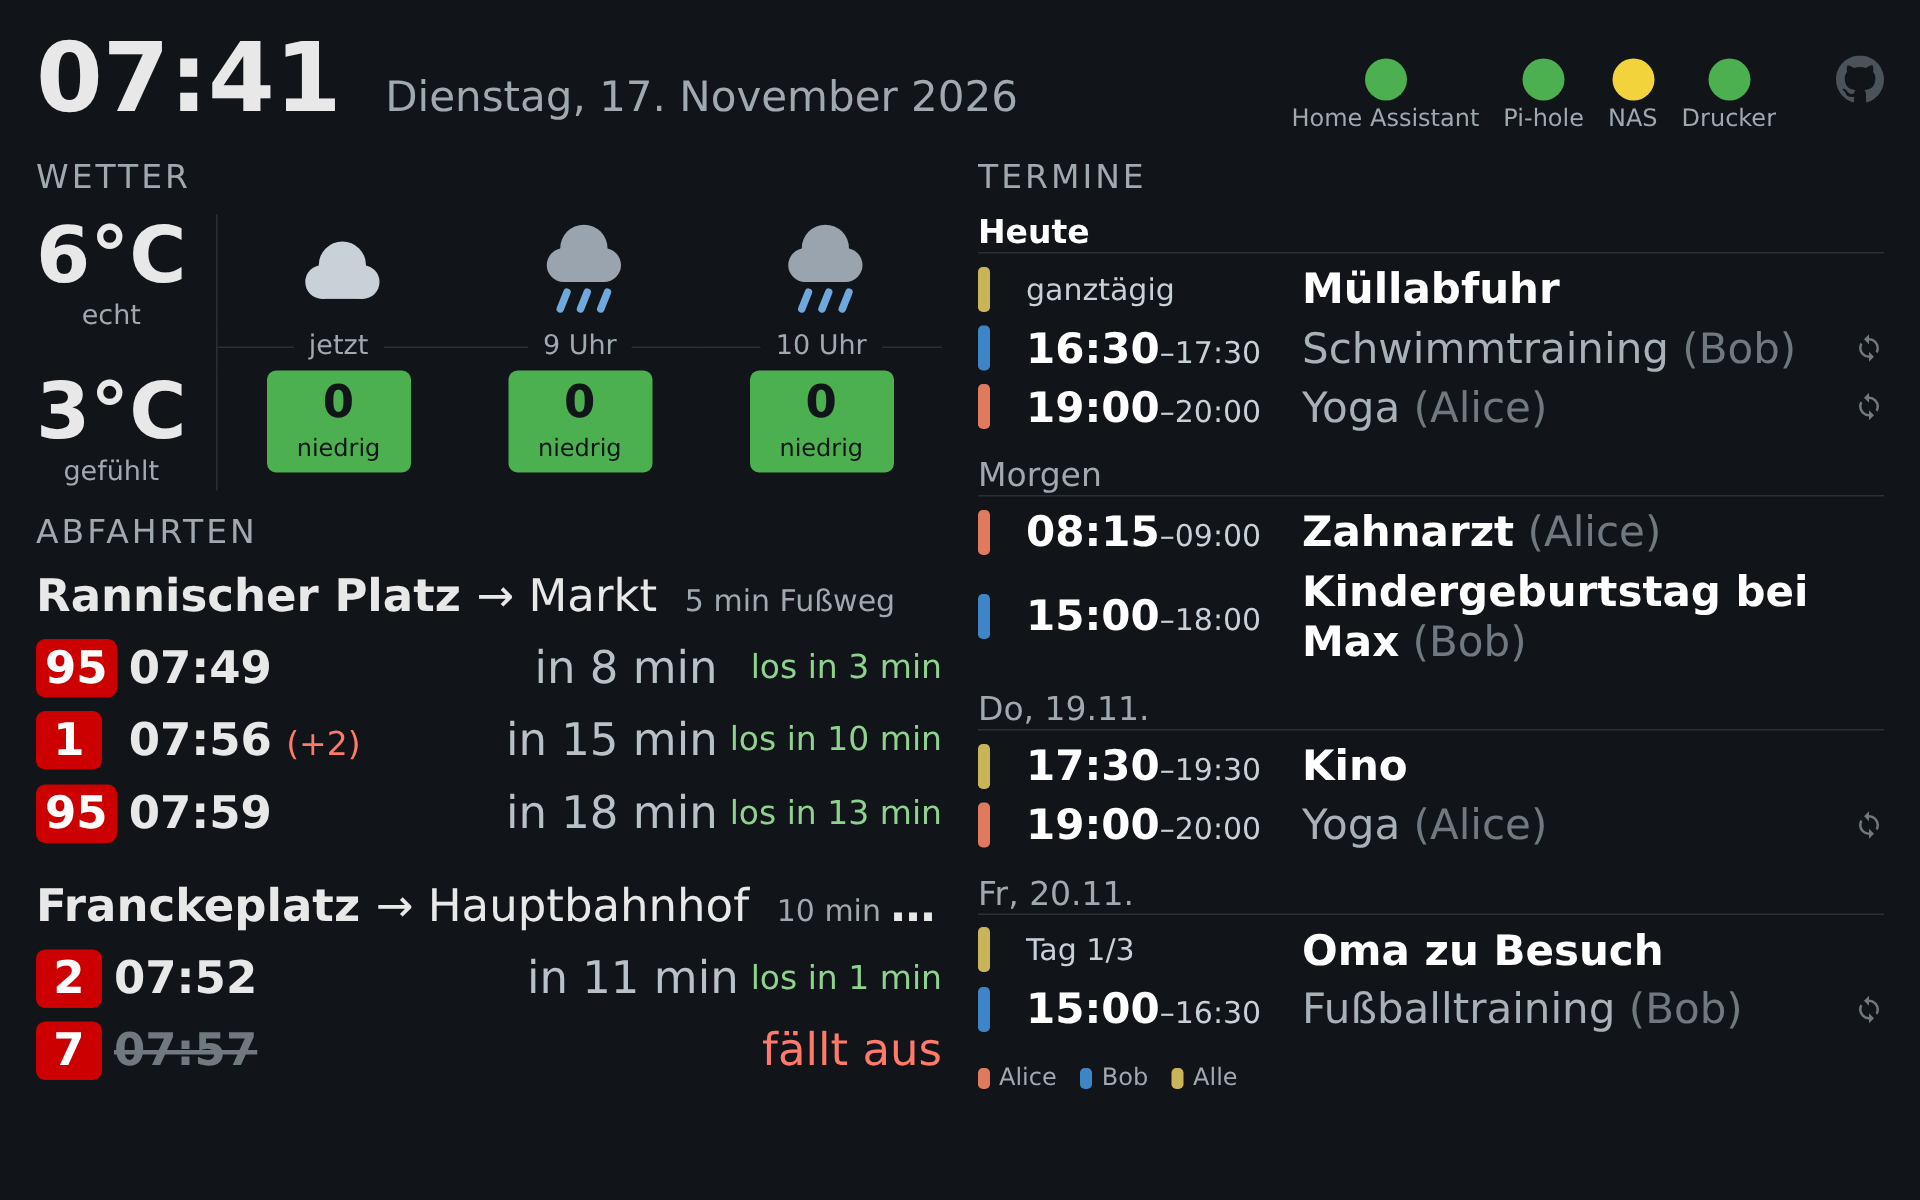
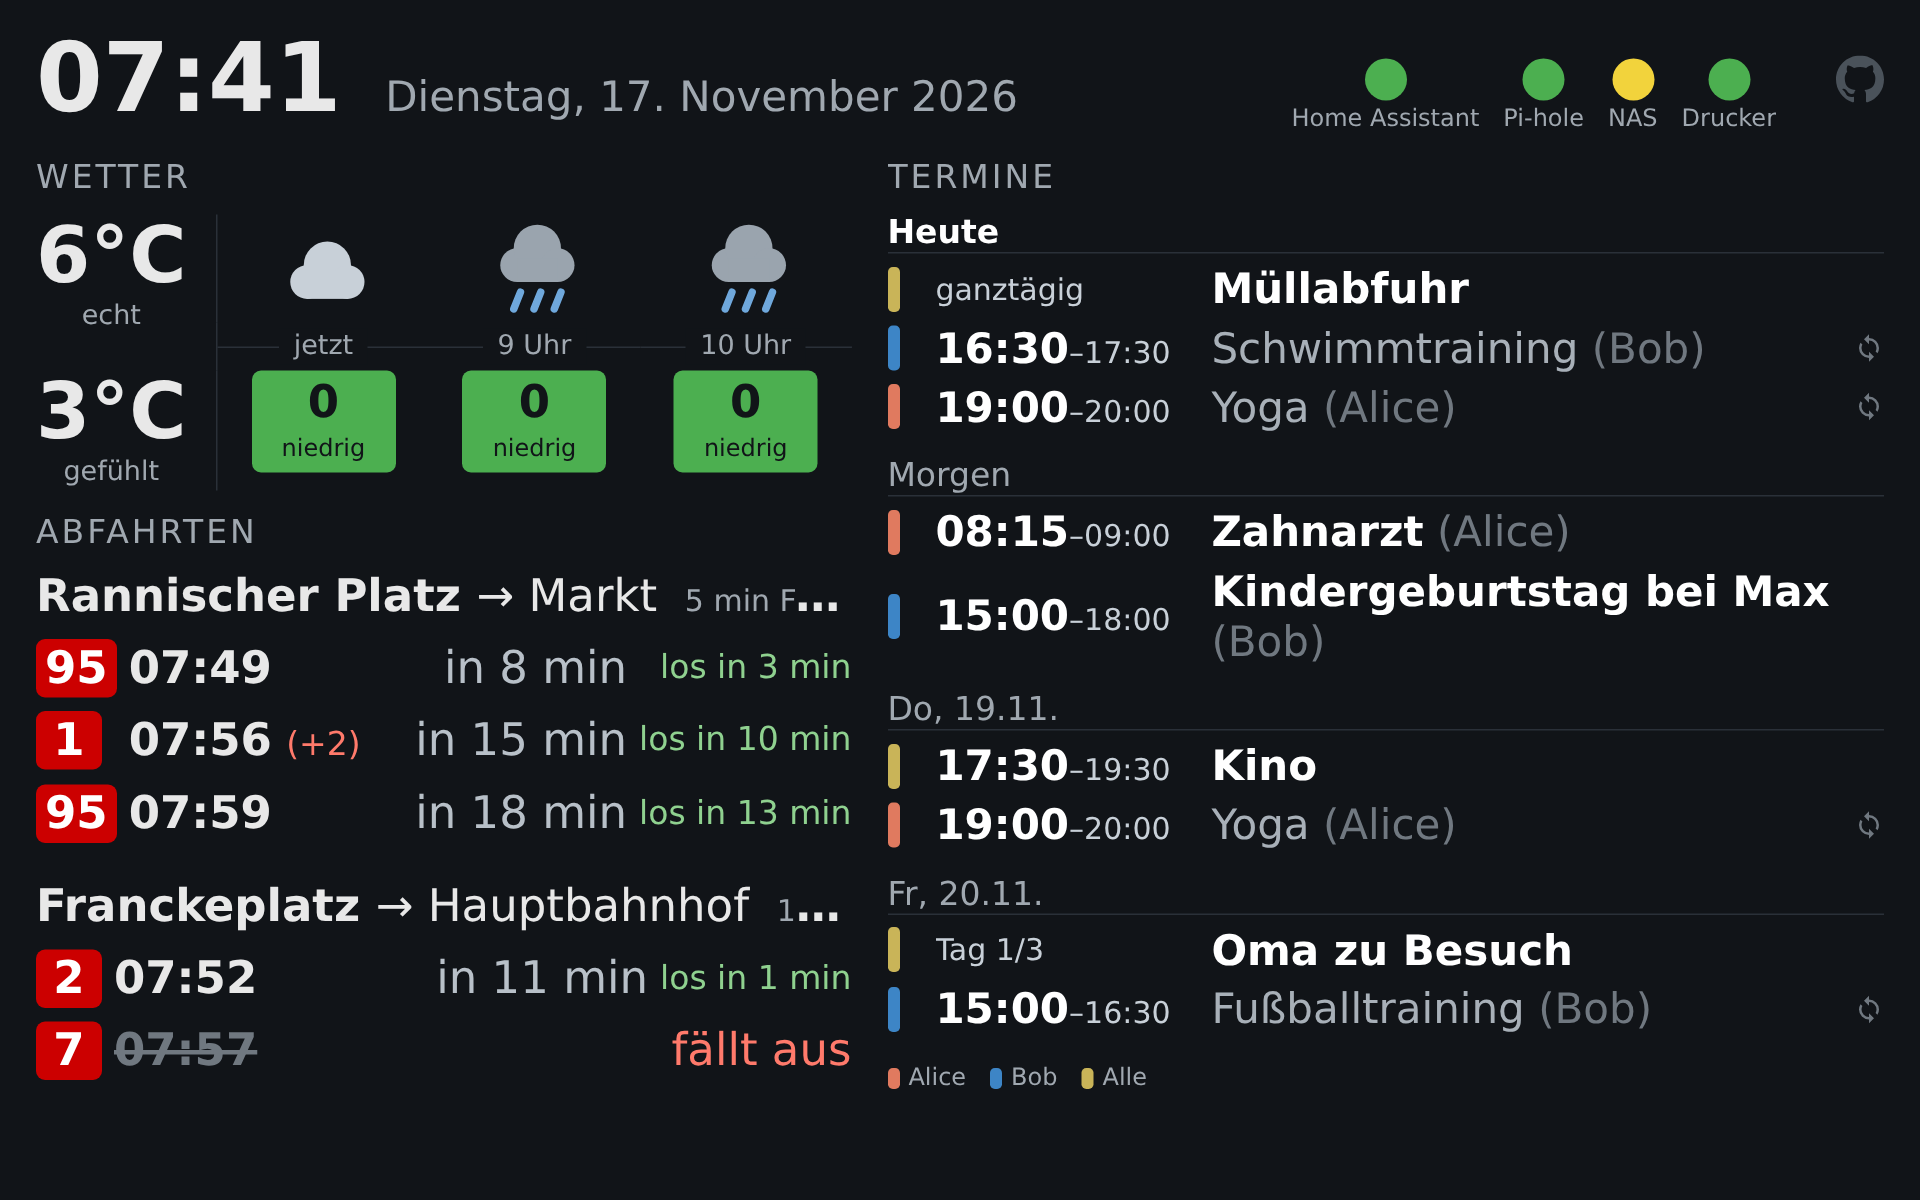
Give the calendar 55 % of the width, the weather and departures column 45 %
Fewer event titles wrap. Displays narrower than 1000 px keep the halves, otherwise the
departures' destinations get too narrow to read.

diff --git a/src/home_dashboard/static/style.css b/src/home_dashboard/static/style.css
@@ -194,11 +194,12 @@ body {
   margin-right: 0;
 }
 
-/* A column of widgets (weather + departures), as wide as the calendar */
+/* A column of widgets (weather + departures): 45 % of the width, the calendar on the right 55 %
+ * (fewer event titles wrap) */
 .column {
-  -webkit-box-flex: 1;
-  -webkit-flex: 1 1 0;
-  flex: 1 1 0;
+  -webkit-box-flex: 9;
+  -webkit-flex: 9 1 0;
+  flex: 9 1 0;
   margin-right: 1.5rem;
   min-width: 0;
   min-height: 0;
@@ -216,6 +217,22 @@ body {
 
 .column .widget {
   margin-right: 0;
+}
+
+.widget-calendar {
+  -webkit-box-flex: 11;
+  -webkit-flex: 11 1 0;
+  flex: 11 1 0;
+}
+
+/* Narrow displays: halves, the departures' destinations and the weather tiles need the width */
+@media (max-width: 999px) {
+  .column,
+  .widget-calendar {
+    -webkit-box-flex: 1;
+    -webkit-flex: 1 1 0;
+    flex: 1 1 0;
+  }
 }
 
 /* The weather on top gets one third of the column, its content at the top, the departures below
@@ -260,7 +277,8 @@ body {
   }
 
   /* Weather + departures and the calendar share the height equally */
-  .column {
+  .column,
+  .widget-calendar {
     -webkit-box-flex: 1;
     -webkit-flex: 1 1 0;
     flex: 1 1 0;

diff --git a/tests/test_layout.py b/tests/test_layout.py
@@ -84,20 +84,21 @@ def test_widgets_fit_the_display_without_overlapping_or_scrolling(open_dashboard
 
 
 @pytest.mark.parametrize("viewport", [LARGE, (1280, 800)], ids=lambda size: f"{size[0]}x{size[1]}")
-def test_calendar_takes_the_right_half_and_departures_two_thirds_of_the_left(
+def test_calendar_takes_55_percent_and_departures_two_thirds_of_the_left_column(
     open_dashboard, viewport
 ):
     """Smaller displays: the weather needs more than a third for its two rows of tiles, the
-    departures give up rows instead (see test_widgets_fit_the_display_without_overlapping...)."""
+    departures give up rows instead (see test_widgets_fit_the_display_without_overlapping...).
+    Narrow displays (below 1000 px) split the width in halves, so the departures stay readable."""
     boxes = {
         widget["id"]: widget["box"]
         for widget in open_dashboard(viewport).evaluate(LAYOUT)["widgets"]
     }
     departures, weather, calendar = boxes["departures"], boxes["weather"], boxes["calendar"]
 
-    assert departures["right"] - departures["left"] == pytest.approx(
-        calendar["right"] - calendar["left"], abs=1
-    )
+    left = departures["right"] - departures["left"]
+    right = calendar["right"] - calendar["left"]
+    assert right / (left + right) == pytest.approx(0.55, abs=0.005)
     # the gap between weather and departures is taken from both
     column = calendar["bottom"] - weather["top"]
     third = column / 3

diff --git a/docs/architecture.md b/docs/architecture.md
@@ -20,9 +20,9 @@
 - **Weather icons**: inline SVG macros (`templates/widgets/weather_icons.html`), one per WMO code group,
   sun or moon depending on daylight.
 - **CSS**: plain CSS, Flexbox (no Grid) for compatibility with old Android WebViews. Dark theme, large type.
-  Layout: weather and departures share the left half (weather on top with one third of the height and
+  Layout: weather and departures share the left column (45 % of the width) (weather on top with one third of the height and
   its content at the top, more if its tiles need it on small displays, departures below with two thirds), calendar on the
-  right half; in portrait everything is
+  right (55 %); in portrait everything is
   stacked and the column and the calendar share the height equally.
   Header: one flex line with the clock (its height sets the header height), the services status in
   the free space (bubbles right-aligned, the list absolutely positioned so it never grows the header)
